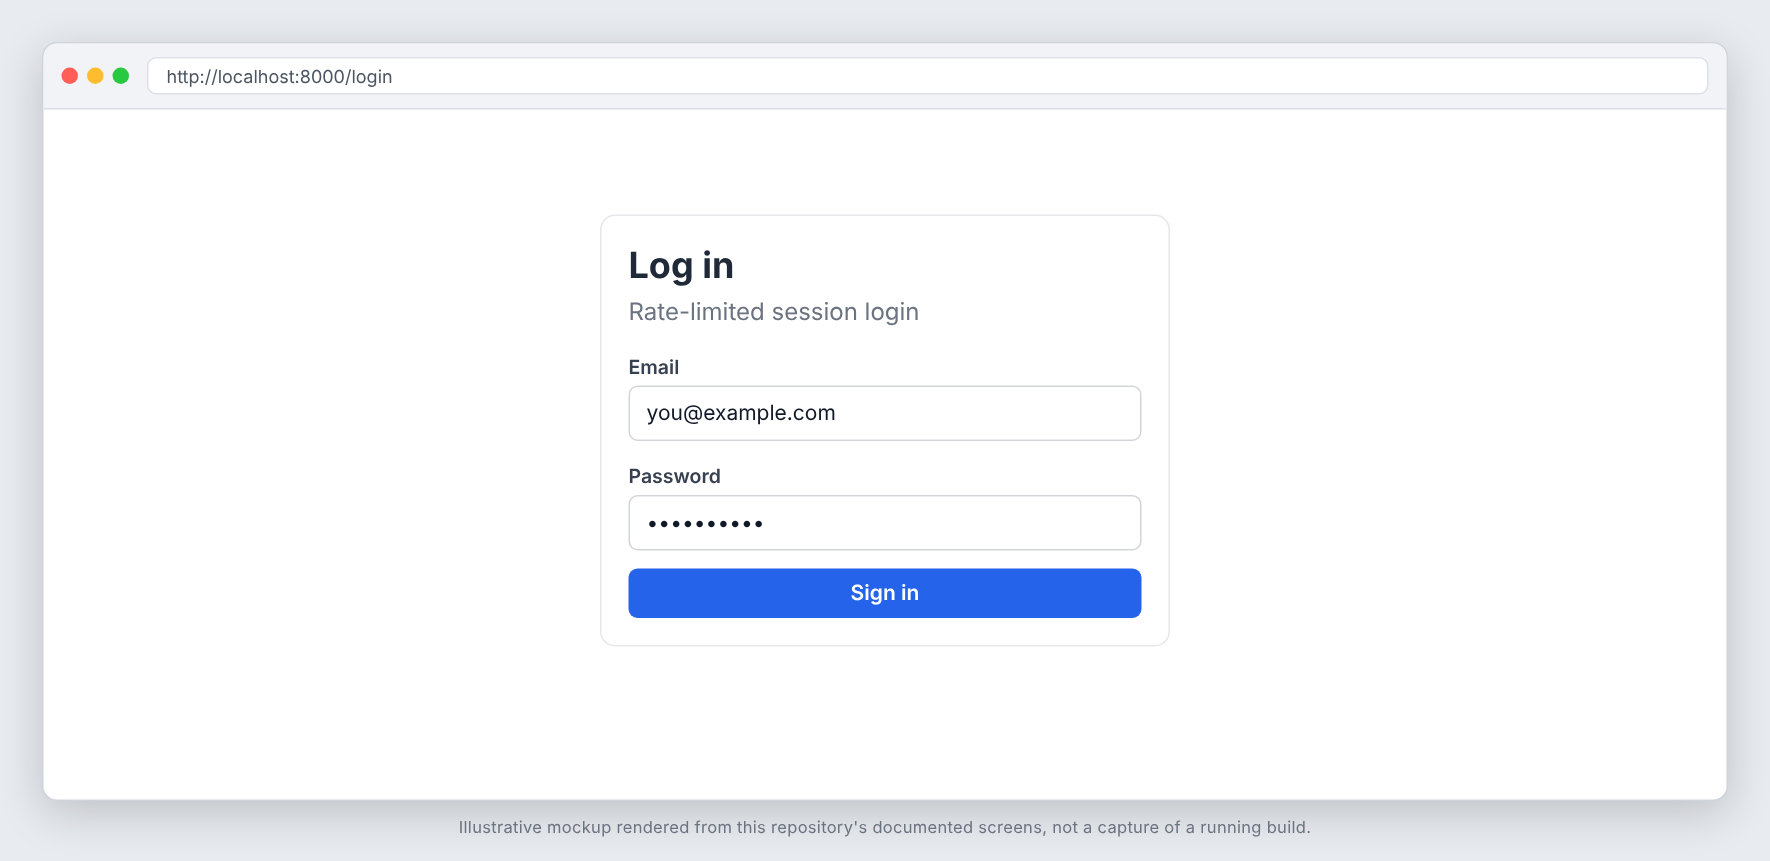
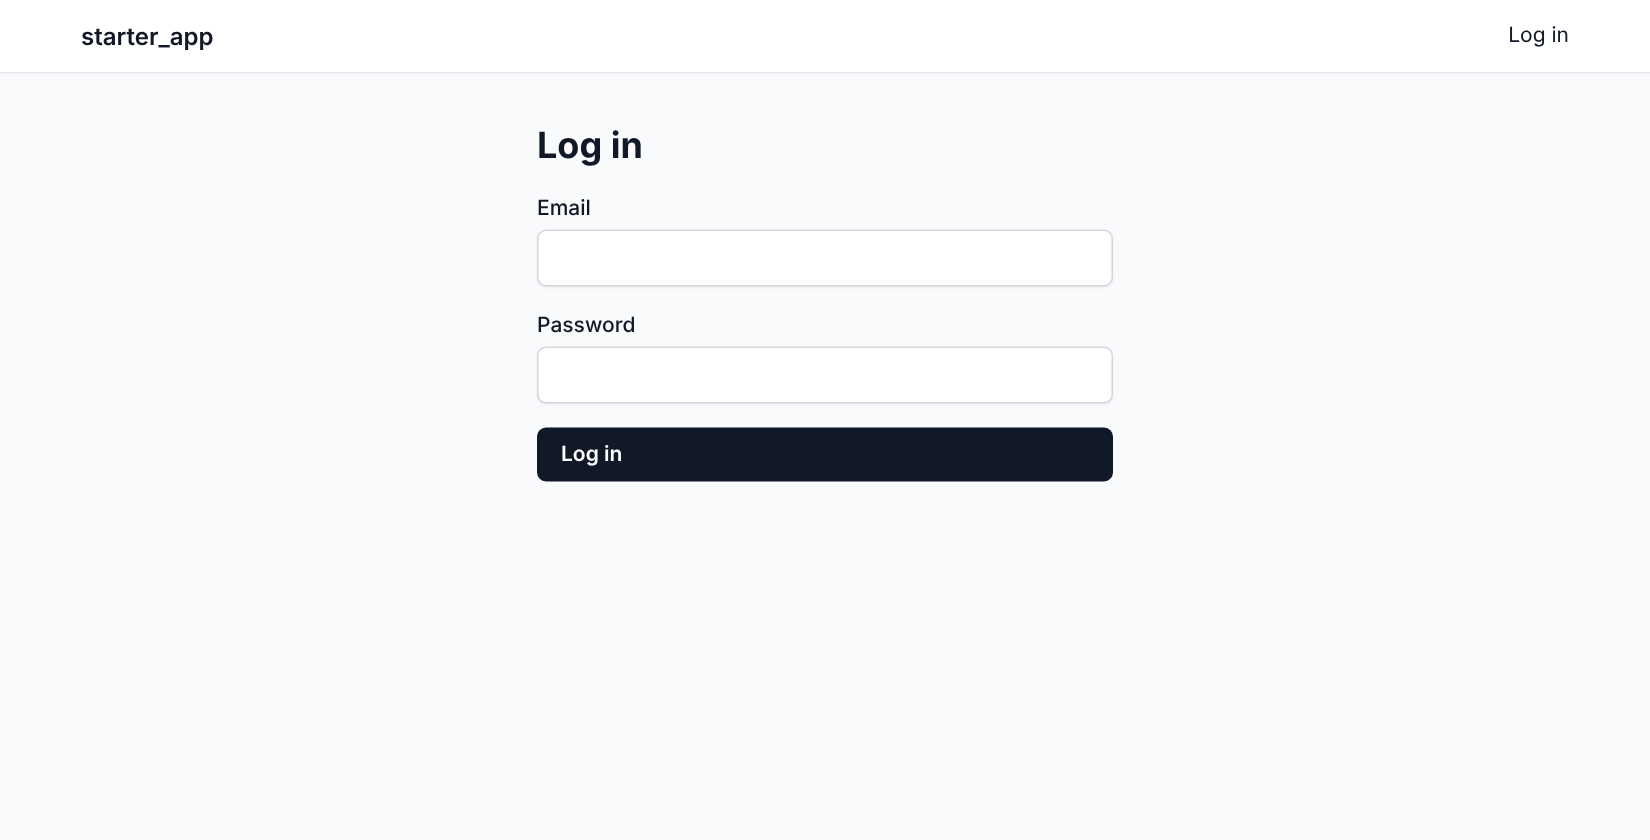
Replace mockups with real captures of the running app
Claude-Session: https://claude.ai/code/session_01MMnAbBEvfYn2oeVzGWoYsN

diff --git a/README.md b/README.md
@@ -11,11 +11,15 @@ otherwise rebuild on day one.
 
 ## Screenshots
 
+![Welcome page](docs/screenshots/welcome.png)
+
 ![Login page](docs/screenshots/login.png)
 
-![Dashboard](docs/screenshots/dashboard.png)
+![Login with a rejected password](docs/screenshots/login-error.png)
 
-_These images are illustrative mockups rendered from this repository's documented screens and API shapes, not captures of a running build. Regenerate or replace them with real captures once the app is running._
+![Dashboard after signing in as the seeded admin](docs/screenshots/dashboard.png)
+
+_Real captures from a local run (PHP 8.3, PostgreSQL with the runtime/migrator role split, Redis, seeded admin account), driven with Playwright._
 
 ## What is in it
 
